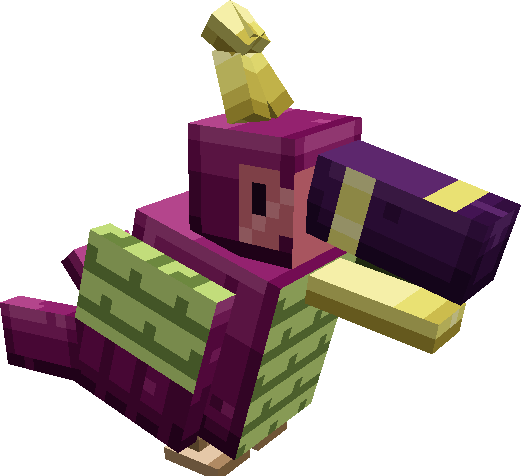
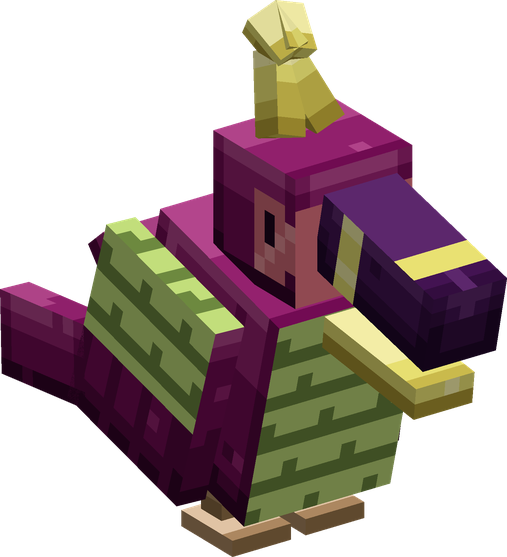
Sky Island wildlife: pictures rendered from the models, every coat
The five animals are now drawn from Sky Island's own models and textures
instead of screenshots: the same three-quarter view for all, the birds in
flight with their wings up, and, new, the two birds saddled on the ground,
the Giant Dog with its saddle, and a row of the five coats of the Cloud Fox
and of the Giant Dog under the Coats table. The fox and the dog are shown
in the manga's coat (cloud, cream).

diff --git a/docs/assets/stylesheets/extra.css b/docs/assets/stylesheets/extra.css
@@ -121,7 +121,7 @@
   white-space: nowrap;
 }
 
-/* In-game pictures of a mod's mobs, cut out of screenshots, side by side with a caption each. */
+/* Pictures of a mod's mobs (cut out of screenshots, or rendered from their models), side by side with a caption each. */
 .md-typeset .mob-gallery {
   display: flex;
   flex-wrap: wrap;
@@ -138,8 +138,17 @@
   width: auto;
 }
 
+/* Rows of variants (coats, saddles) are drawn lower. */
+.md-typeset .mob-gallery.small img {
+  height: 110px;
+}
+
 @media screen and (max-width: 44.9375em) {
   .md-typeset .mob-gallery img {
     height: 160px;
+  }
+
+  .md-typeset .mob-gallery.small img {
+    height: 80px;
   }
 }

diff --git a/docs/mods/sky-island/wildlife.md b/docs/mods/sky-island/wildlife.md
@@ -33,11 +33,11 @@ The bird of Jaya, grown **huge** on Skypiea (about two blocks tall), and friendl
 
 <figure markdown>
 ![A Sky Dot Bird in flight](mobs/sky-dot-bird.png)
-<figcaption>The Sky Dot Bird, in flight</figcaption>
+<figcaption>The Sky Dot Bird</figcaption>
 </figure>
 
 <figure markdown>
-![A Three-Jo Bird](mobs/three-jo-bird.png)
+![A Three-Jo Bird in flight](mobs/three-jo-bird.png)
 <figcaption>The Three-Jo Bird</figcaption>
 </figure>
 
@@ -52,6 +52,20 @@ The bird of Jaya, grown **huge** on Skypiea (about two blocks tall), and friendl
 1. **Tame** it with seeds (wheat, melon, pumpkin, beetroot or torchflower), like a parrot. Seeds also heal a tamed one.
 2. **Saddle** it: use a **vanilla saddle** on it. Without a saddle, a click makes it sit or stand.
 3. **Ride** it: use it with an empty hand. **Only its owner** can ride and steer it.
+
+<div class="mob-gallery small" markdown>
+
+<figure markdown>
+![A saddled Sky Dot Bird on the ground](mobs/sky-dot-bird-saddled.png)
+<figcaption>Sky Dot Bird, with a saddle</figcaption>
+</figure>
+
+<figure markdown>
+![A saddled Three-Jo Bird on the ground](mobs/three-jo-bird-saddled.png)
+<figcaption>Three-Jo Bird, with a saddle</figcaption>
+</figure>
+
+</div>
 
 **Flying it** — a horse that flies:
 
@@ -75,7 +89,7 @@ Su's kind: a small white fox with a long muzzle, on the Angel Islands. **Tame it
 
 <figure markdown>
 ![A Cloud Fox](mobs/cloud-fox.png)
-<figcaption>The Cloud Fox (cloud coat)</figcaption>
+<figcaption>The Cloud Fox</figcaption>
 </figure>
 
 </div>
@@ -88,7 +102,12 @@ Holy's kind: a **huge** dog — over three blocks tall — very rare in the Uppe
 
 <figure markdown>
 ![A Giant Dog](mobs/giant-dog.png)
-<figcaption>The Giant Dog (charcoal coat)</figcaption>
+<figcaption>The Giant Dog</figcaption>
+</figure>
+
+<figure markdown>
+![A saddled Giant Dog](mobs/giant-dog-saddled.png)
+<figcaption>With a saddle</figcaption>
 </figure>
 
 </div>
@@ -105,6 +124,64 @@ The fox and the dog are born in one of **five coats** and keep it for life; the 
 |---|---|
 | Cloud Fox | **cloud** (Su), sky, dawn, mint, dusk |
 | Giant Dog | **cream** (Holy), russet, silver, chocolate, charcoal |
+
+<div class="mob-gallery small" markdown>
+
+<figure markdown>
+![Cloud Fox, cloud coat](mobs/coat-fox-cloud.png)
+<figcaption>cloud</figcaption>
+</figure>
+
+<figure markdown>
+![Cloud Fox, sky coat](mobs/coat-fox-sky.png)
+<figcaption>sky</figcaption>
+</figure>
+
+<figure markdown>
+![Cloud Fox, dawn coat](mobs/coat-fox-dawn.png)
+<figcaption>dawn</figcaption>
+</figure>
+
+<figure markdown>
+![Cloud Fox, mint coat](mobs/coat-fox-mint.png)
+<figcaption>mint</figcaption>
+</figure>
+
+<figure markdown>
+![Cloud Fox, dusk coat](mobs/coat-fox-dusk.png)
+<figcaption>dusk</figcaption>
+</figure>
+
+</div>
+
+<div class="mob-gallery small" markdown>
+
+<figure markdown>
+![Giant Dog, cream coat](mobs/coat-dog-cream.png)
+<figcaption>cream</figcaption>
+</figure>
+
+<figure markdown>
+![Giant Dog, russet coat](mobs/coat-dog-russet.png)
+<figcaption>russet</figcaption>
+</figure>
+
+<figure markdown>
+![Giant Dog, silver coat](mobs/coat-dog-silver.png)
+<figcaption>silver</figcaption>
+</figure>
+
+<figure markdown>
+![Giant Dog, chocolate coat](mobs/coat-dog-chocolate.png)
+<figcaption>chocolate</figcaption>
+</figure>
+
+<figure markdown>
+![Giant Dog, charcoal coat](mobs/coat-dog-charcoal.png)
+<figcaption>charcoal</figcaption>
+</figure>
+
+</div>
 
 ## Drops
 
